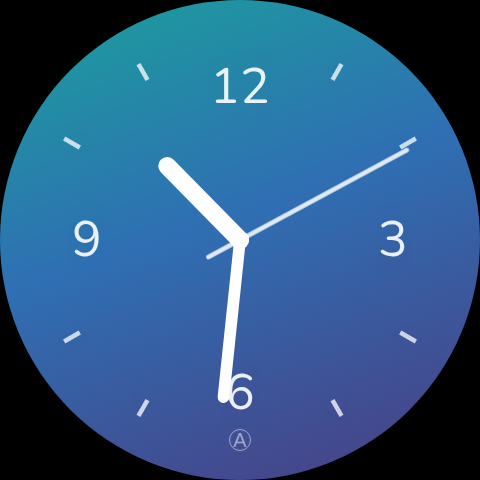
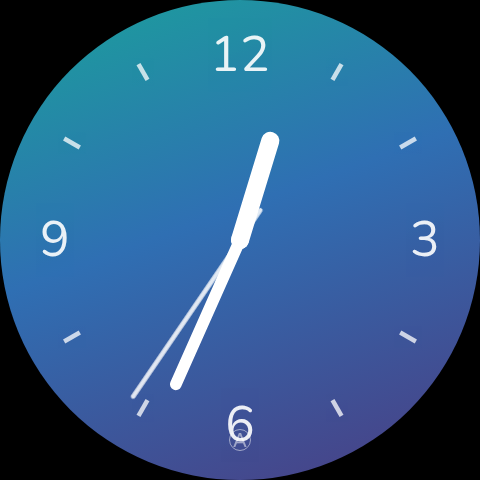
1.1.4: aligne les chiffres du cadran analogique sur les graduations
Les chiffres 12/3/6/9 étaient au rayon 34, nettement plus proches du
centre que les graduations des autres heures (rayon 41-45) — ils
flottaient au milieu du cadran au lieu de marquer l'heure au même
niveau que le reste. Repositionnés au rayon 41 (bord interne des
graduations), vérifié par mesure des rects réels (numéral 12 centré à
la même distance du centre que le point intérieur des ticks voisins).

diff --git a/src/echo-home-card.js b/src/echo-home-card.js
@@ -329,7 +329,12 @@ class EchoHomeCard extends LitElement {
     }
     const numerals = [12, 3, 6, 9].map((n, i) => {
       const angle = i * 90 * (Math.PI / 180);
-      const radius = 34;
+      // Même rayon que les graduations (radius = distance du bord
+      // interne des ticks, y1=5/y2=9) : les chiffres doivent être sur le
+      // même cercle qu'elles, pas ramenés vers le centre — sinon ils
+      // paraissent "flotter" au milieu du cadran au lieu de marquer
+      // l'heure à la même distance du bord que les autres graduations.
+      const radius = 41;
       // sin/cos plutôt que 4 positions écrites en dur : évite de se
       // tromper de signe pour l'une des quatre (cf. angle depuis midi,
       // sens horaire — x = sin, y = -cos).

diff --git a/dist/echo-home-card.js b/dist/echo-home-card.js
@@ -828,7 +828,7 @@ class W extends q {
         />
       `);
     const c = [12, 3, 6, 9].map((h, u) => {
-      const p = u * 90 * (Math.PI / 180), m = 34, _ = 50 + m * Math.sin(p), we = 50 - m * Math.cos(p);
+      const p = u * 90 * (Math.PI / 180), m = 41, _ = 50 + m * Math.sin(p), we = 50 - m * Math.cos(p);
       return oe`
         <text
           class="numeral"

diff --git a/CHANGELOG.md b/CHANGELOG.md
@@ -1,5 +1,13 @@
 # Changelog
 
+## 1.1.4
+
+- Chiffres (12/3/6/9) trop ramenés vers le centre du cadran (rayon 34)
+  par rapport aux graduations des autres heures (rayon 41-45) — ils
+  paraissaient flotter au milieu plutôt que marquer l'heure au même
+  niveau que le reste des graduations. Repositionnés au rayon 41, sur
+  le même cercle que le bord interne des graduations.
+
 ## 1.1.3
 
 - Ajout d'une **aiguille des secondes** qui avance en continu, via une
